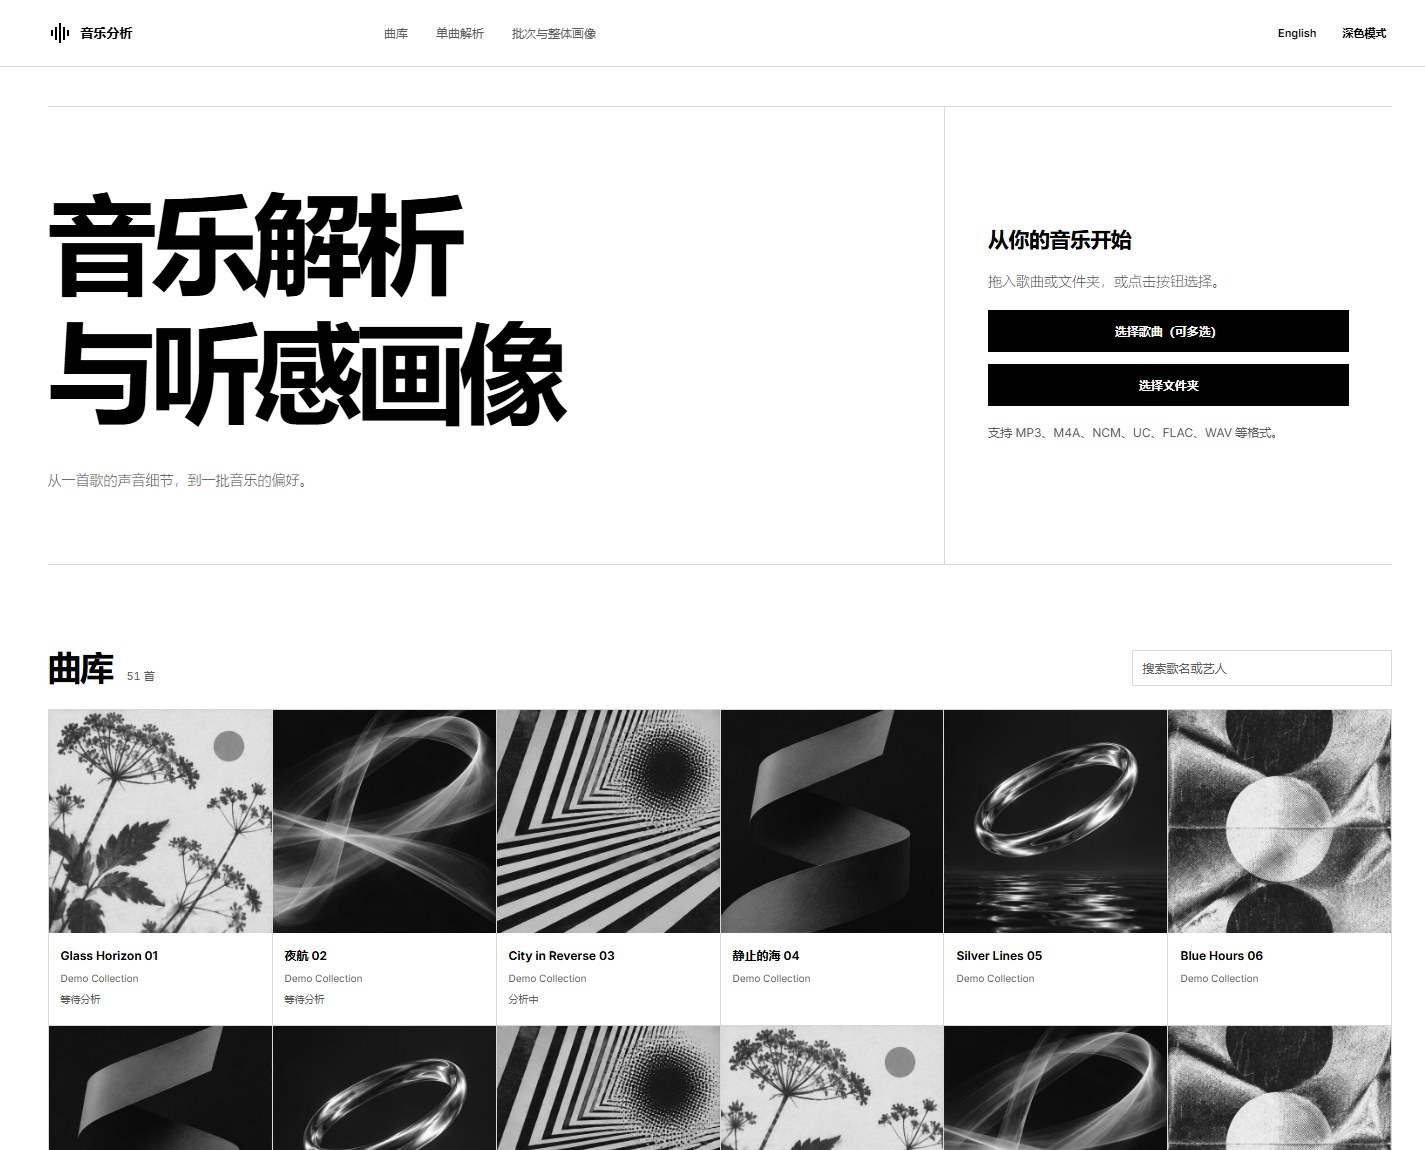
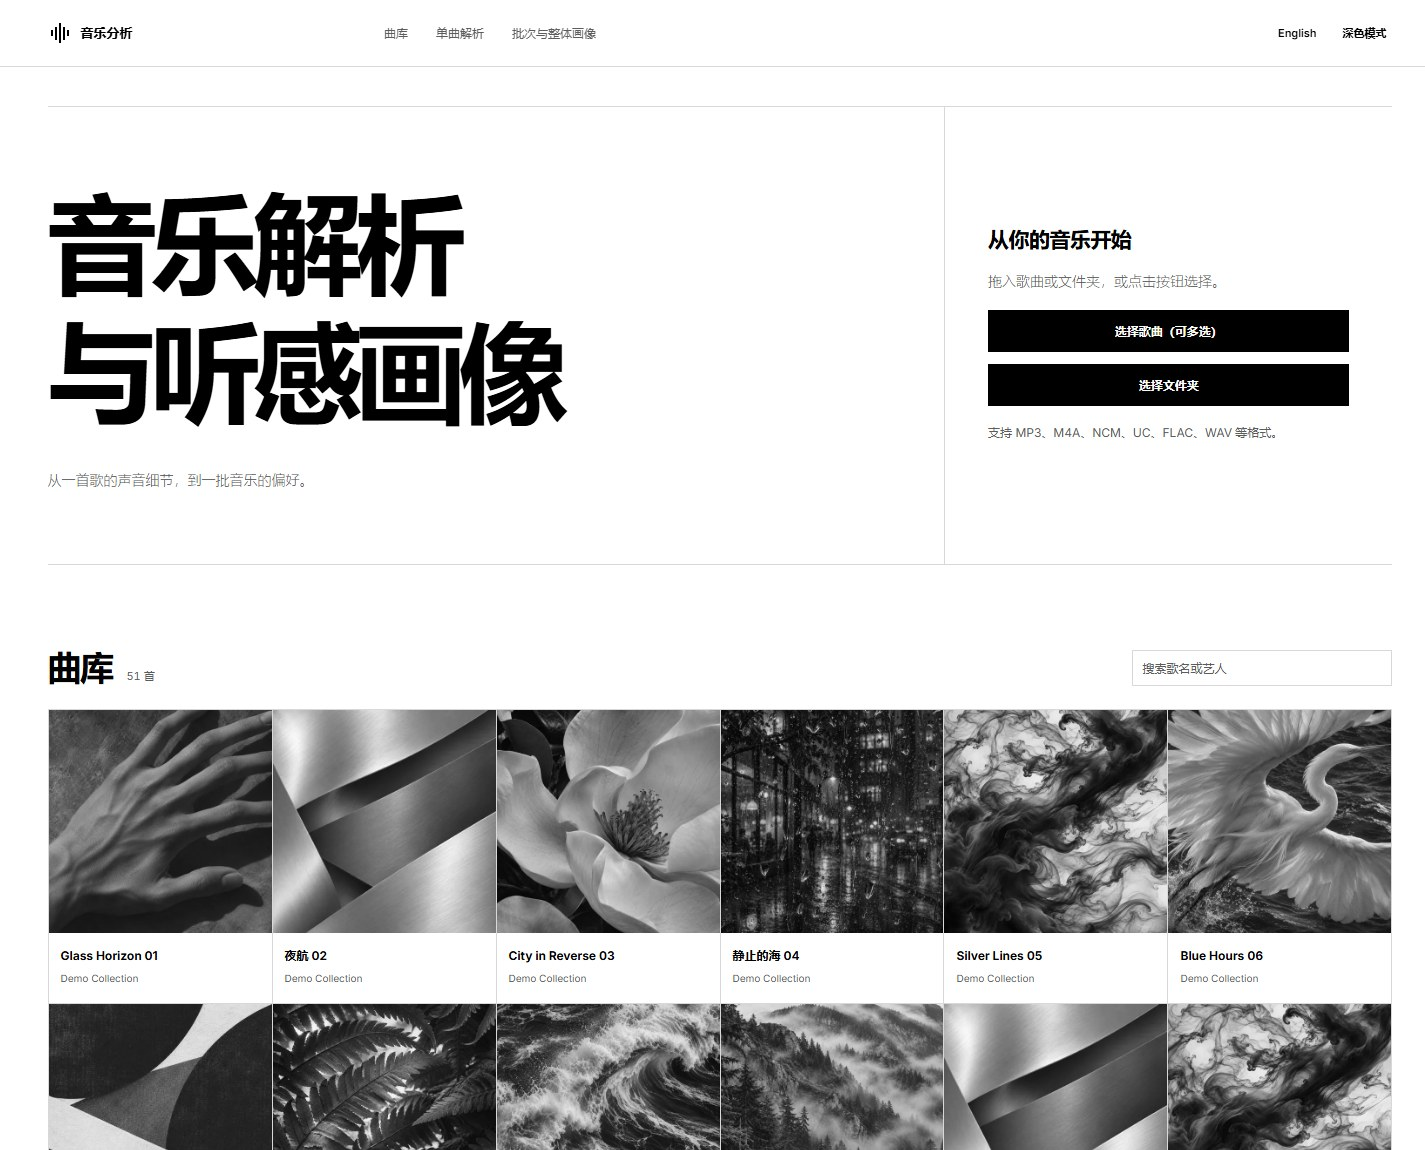
Expand decorative covers to ten varied full-bleed artworks

Changed region(s): [[0.0309, 0.6087, 0.9881, 0.8217], [0.0309, 0.8522, 0.9881, 1.0]]

diff --git a/music_analysis/web/styles.css b/music_analysis/web/styles.css
@@ -132,15 +132,10 @@ input::placeholder { color: var(--muted); }
 }
 .sleeve-frame { display: block; overflow: hidden; min-width: 0; background: var(--panel); }
 .sleeve {
-  display: block; aspect-ratio: 1; width: 100%; background: #333 url("record-sleeves.webp") no-repeat;
-  background-size: 300% 200%; filter: grayscale(100%); transform: scale(1);
+  display: block; aspect-ratio: 1; width: 100%; background: #333 no-repeat center;
+  background-size: cover; filter: grayscale(100%); transform: scale(1);
   transition: filter .8s cubic-bezier(.16, 1, .3, 1), transform .8s cubic-bezier(.16, 1, .3, 1);
 }
-.sleeve[data-sleeve="1"] { background-position: 50% 0; }
-.sleeve[data-sleeve="2"] { background-position: 100% 0; }
-.sleeve[data-sleeve="3"] { background-position: 0 100%; }
-.sleeve[data-sleeve="4"] { background-position: 50% 100%; }
-.sleeve[data-sleeve="5"] { background-position: 100% 100%; }
 /* Reveal each original cover in color over 0.8s with the supplied easing curve. */
 .record-tile:is(:hover, :focus-visible) .sleeve, .report-cover:hover .sleeve { filter: grayscale(0%); transform: scale(1.05); }
 .record-facts { min-width: 0; display: grid; gap: 5px; padding: 14px 12px 17px; overflow-wrap: anywhere; }

diff --git a/music_analysis/web/app.js b/music_analysis/web/app.js
@@ -9,8 +9,10 @@ const audio = $("audio");
 const importButtons = [$("choose-files"), $("choose-folder")];
 const reducedMotion = matchMedia("(prefers-reduced-motion: reduce)");
 const statuses = { queued: "等待分析", running: "分析中", done: "已分析", error: "分析失败" };
+const sleeveArt = ["01-botanical-shadow", "02-ocean-nocturne", "03-mountain-mist", "04-ivory-bloom",
+  "05-ink-drift", "06-human-gesture", "07-city-after-rain", "08-heron-flight", "09-cobalt-interlock", "10-silver-facets"];
 const sleeveSlots = new Map();
-const sleeveCounts = [0, 0, 0, 0, 0, 0];
+const sleeveCounts = sleeveArt.map(() => 0);
 let noticeTimer, pendingPlayhead, playbackFallback = false, lastListRequest = 0, summaryRequest = 0;
 
 function element(tag, text = "", className = "") {
@@ -104,6 +106,7 @@ function sleeveIndex(id) {
 function sleeve(index) {
   const art = element("span", "", "sleeve");
   art.dataset.sleeve = index;
+  art.style.backgroundImage = `url("/assets/sleeves/${sleeveArt[index]}.webp")`;
   art.setAttribute("aria-hidden", "true");
   return art;
 }

diff --git a/music_analysis/web/index.html b/music_analysis/web/index.html
@@ -6,9 +6,9 @@
   <meta name="local-token" content="__LOCAL_TOKEN__">
   <title>音乐分析</title>
   <link rel="preload" href="/assets/InterVariable.woff2" as="font" type="font/woff2" crossorigin>
-  <link rel="stylesheet" href="/assets/styles.css?v=culture-aesthetics-2">
+  <link rel="stylesheet" href="/assets/styles.css?v=cover-collection-10">
   <script src="/assets/i18n.js?v=culture-aesthetics-2" defer></script>
-  <script src="/assets/app.js?v=culture-aesthetics-2" defer></script>
+  <script src="/assets/app.js?v=cover-collection-10" defer></script>
 </head>
 <body>
   <header class="topbar">

diff --git a/docs/cover-art.md b/docs/cover-art.md
@@ -1,0 +1,128 @@
+# 十款装饰封套
+
+这套封套使用内置 imagegen 工具生成，共十款。构图采用满版裁切与克制配色，题材包含自然、人物局部、都市摄影、流体和两款几何材质。封套仅用于视觉区分，不参与音乐分析，也不代表歌曲真实专辑或曲风。
+
+![十款封套总览，按编号从左到右、从上到下排列。](images/cover-collection.jpg)
+
+1. **叶影**：[01-botanical-shadow.webp](../music_analysis/web/sleeves/01-botanical-shadow.webp)
+2. **潮汐**：[02-ocean-nocturne.webp](../music_analysis/web/sleeves/02-ocean-nocturne.webp)
+3. **山岚**：[03-mountain-mist.webp](../music_analysis/web/sleeves/03-mountain-mist.webp)
+4. **花序**：[04-ivory-bloom.webp](../music_analysis/web/sleeves/04-ivory-bloom.webp)
+5. **墨流**：[05-ink-drift.webp](../music_analysis/web/sleeves/05-ink-drift.webp)
+6. **触感**：[06-human-gesture.webp](../music_analysis/web/sleeves/06-human-gesture.webp)
+7. **夜雨**：[07-city-after-rain.webp](../music_analysis/web/sleeves/07-city-after-rain.webp)
+8. **掠羽**：[08-heron-flight.webp](../music_analysis/web/sleeves/08-heron-flight.webp)
+9. **群青**：[09-cobalt-interlock.webp](../music_analysis/web/sleeves/09-cobalt-interlock.webp)
+10. **银折**：[10-silver-facets.webp](../music_analysis/web/sleeves/10-silver-facets.webp)
+
+## 生成提示词
+
+以下为最终选用的提示词。01–08 使用共同提示 A，09–10 使用共同提示 B；每次生成的完整提示为相应共同提示与该款题材提示两段拼接。
+
+<details>
+<summary>共同提示 A：自然、人物与都市题材</summary>
+
+```text
+Create one original SQUARE album-cover artwork for a sophisticated modern music gallery. Full-bleed, visually rich composition: the recognizable subject and its organic details extend through the ENTIRE frame and are cropped naturally at the edges. Tight immersive framing, strong focal structure, subtle fine-art photographic grain, controlled contrast and a restrained harmonious palette. Contemporary, elegant, clear, with enough layered detail to reward looking closely. Every region participates; no tiny isolated object, no large blank background, no empty upper half. The subject here is natural or photographic, not an abstract geometric sculpture, paper-fold relief or arrangement of blocks. This is the artwork itself, no album mockup. No text, typography, letters, numbers, logos, watermark, frame, montage or grids.
+```
+
+</details>
+
+<details>
+<summary>共同提示 B：满版几何题材</summary>
+
+```text
+Create one original SQUARE album-cover artwork: a visually full, edge-to-edge abstract composition in a refined contemporary minimalist style. This is the artwork surface itself. CRITICAL COMPOSITION: large interlocking forms and material planes must span the WHOLE canvas, reaching and being cropped by all four edges. Use an intimate macro crop and several overlapping elements so every part of the picture participates; background exists only as narrow or shaped intervals between forms. Strong overall structure, generous scale, layered depth, extremely deliberate rhythm. Avoid small isolated objects, empty upper halves, a tiny object on a blank backdrop, distant still-life scenes and excessive blank margins. Keep a restrained palette and simple coherent geometry, elegant tactile surfaces, subtle natural lighting, beautiful modern abstract-art direction. No text, letters, numbers, logos, watermark, frame, album mockup, split panels or grids. No busy ornament, rainbow neon or gratuitous glossy CGI.
+```
+
+</details>
+
+<details>
+<summary>01-botanical-shadow · 叶影</summary>
+
+```text
+Close-up fine-art botanical photograph of overlapping deep forest-green fern fronds, with beautifully readable individual leaflets, veins, subtle natural imperfections and layered shadows. Fronds cross diagonally in front of one another and extend off all edges, the full picture alive with botanical structure. A small amount of soft ivory backlight shines through narrow gaps. Dark green, black-green and warm ivory only. A sophisticated lush natural composition, not a repeating graphic pattern.
+```
+
+</details>
+
+<details>
+<summary>02-ocean-nocturne · 潮汐</summary>
+
+```text
+An overhead fine-art photograph of a single powerful breaking ocean wave, its sculptural white foam curling diagonally across deep ink-blue water. Intricate natural foam branches and smaller eddies populate the entire square. No horizon or sky. A large dynamic wave fills and exceeds the frame, elegant broad dark-to-white contrast with subtle storm-grey tonal layers, no artificial neon colors or oversaturated turquoise.
+```
+
+</details>
+
+<details>
+<summary>03-mountain-mist · 山岚</summary>
+
+```text
+A close, compressed landscape photograph of a rugged mountain ridge and dense conifer forest threaded with low mist. Layered near-black forest detail fills the lower and side regions; pale fog winds through the center between recognizable rocky and wooded slopes. A further misty ridge reaches the top edge. Rich frame-wide natural depth, not a small mountain beneath a huge blank sky. Restrained charcoal, soft jade-grey and off-white, contemporary fine-art landscape mood.
+```
+
+</details>
+
+<details>
+<summary>04-ivory-bloom · 花序</summary>
+
+```text
+An extreme close-up fine-art photograph of one large ivory magnolia flower opening across the whole square. Broad delicate petals overlap and curl off the image edges, clear natural petal veins and a small warm rust-colored stamen cluster create a recognizable flower rather than abstract paper ribbons. Deep charcoal botanical shadows appear only in shaped gaps. Cream, warm white, muted rust and near-black; elegant, tactile and quietly dramatic, not a flower isolated against a large empty backdrop.
+```
+
+</details>
+
+<details>
+<summary>05-ink-drift · 墨流</summary>
+
+```text
+Organic sumi-black ink suspended in water, photographed extremely close as dense flowing plumes, branching filaments and translucent smoky layers spread across the entire square. A strong free-flowing diagonal current, rich natural marbling and soft grey diffusion fill every corner, with warm ivory water revealed only between plumes. It should feel like fluid motion, not brush lettering, paper folds, concentric circles or geometric forms. Refined monochrome abstract organic art, no container visible.
+```
+
+</details>
+
+<details>
+<summary>06-human-gesture · 触感</summary>
+
+```text
+An intimate fine-art photographic study of one adult human hand and its shadow, viewed close enough that the wrist enters one edge and relaxed gracefully spread fingers extend toward and beyond the opposite edges. The hand itself occupies most of the composition; warm desaturated skin texture, subtle creases, soft side light and a deep graphite shadow create a strong organic silhouette. Anatomically correct single hand with five fingers, no extra limbs, no jewelry, no props, no face. Restrained warm monochrome, elegant and expressive, not clinical.
+```
+
+</details>
+
+<details>
+<summary>07-city-after-rain · 夜雨</summary>
+
+```text
+A fine-art nocturnal city photograph seen through rain-speckled glass. Large translucent droplets in the foreground overlap softly blurred warm building windows, streaked street lights and wet-street reflections that extend throughout the entire square. The layered image clearly evokes an urban night after rain, with strong controlled amber and muted red highlights against graphite-black. Atmospheric photographic depth, full frame, no empty sky, no readable signs, no rainbow neon, no futuristic CGI.
+```
+
+</details>
+
+<details>
+<summary>08-heron-flight · 掠羽</summary>
+
+```text
+A close-cropped fine-art photograph of a white heron taking flight over dark water. One great feathered wing sweeps across the upper and left edges, the second wing and body fill the lower region, while the elegant curved neck and slender head remain recognizably visible near the right side. Detailed natural feathers, subtle motion, dramatic soft light and textured dark water in the remaining gaps. Full-frame animal presence, not a small bird on a blank background. Ivory, cool grey and near-black, graceful contemporary photographic album art.
+```
+
+</details>
+
+<details>
+<summary>09-cobalt-interlock · 群青</summary>
+
+```text
+Deep ultramarine-blue circular segments, broad chalk-white paper strips and a single graphite plane interlock across the entire square. Oversized circles extend beyond the top and right edges; white planes cut through them at clean oblique angles. Three or four layers, rich precise screenprint texture, confident graphic rhythm, no broad unused white background.
+```
+
+</details>
+
+<details>
+<summary>10-silver-facets · 银折</summary>
+
+```text
+A tightly cropped architectural composition made entirely of folded satin-brushed aluminum planes. Four large diagonal silver and charcoal facets meet and overlap, filling the frame with crisp seams, muted reflections and deep narrow shadows. Some folds exit every image edge. Restrained monochrome luxury, beautiful physical material, no central small metal object.
+```
+
+</details>

diff --git a/README.md b/README.md
@@ -130,7 +130,7 @@ powershell -ExecutionPolicy Bypass -File .\Setup.ps1
 - **听感画像描述选曲。** 它用于观察这批音乐的推动感、情绪底色与变化幅度，不据此推断用户的性格或心理状态。
 - **音色与实体乐器存在歧义。** 采样、合成器模拟、混音遮蔽和弱音都可能造成漏判或误判。细分风格与文化标签也尚未完成独立、全面的准确率评测。
 - **导入副本统一为 MP3。** 原始 MP3 和 NCM 中的 MP3 尽量流复制，其他可解码格式转换为 320 kbps、48 kHz 立体声 MP3；无损源会发生有损压缩。请另行保留需要归档的原文件。NCM／UC 支持取决于文件变体，QMC／KGM 等不在当前支持范围内。
-- **截图中的封套是装饰。** 内置六款图案由 AI 生成，与歌曲真实专辑封面无关。原始音乐、曲库数据库、分析缓存和模型文件均由 `.gitignore` 排除。
+- **截图中的封套是装饰。** 内置十款满版图案由 AI 生成，涵盖植物、海浪、山雾、花朵、墨水、人物局部、城市、飞鸟和两款几何题材，与歌曲真实专辑封面无关。[封套总览与生成提示词](docs/cover-art.md)。原始音乐、曲库数据库、分析缓存和模型文件均由 `.gitignore` 排除。
 
 逻辑与迁移回归检查可在安装依赖后运行：
 

diff --git a/THIRD_PARTY_NOTICES.md b/THIRD_PARTY_NOTICES.md
@@ -25,5 +25,5 @@
 ## 字体与视觉素材
 
 - **Inter**：Copyright (c) The Inter Project Authors，SIL Open Font License 1.1。字体文件随本仓库提供，完整许可见 [Inter-LICENSE.txt](music_analysis/web/Inter-LICENSE.txt)。
-- **装饰封套**：本项目通过 AI 图像生成得到的六款装饰图，随应用用于界面展示。它们不对应真实歌曲或唱片的专辑封面。
+- **装饰封套**：本项目使用内置 imagegen 工具生成的十款满版装饰图，随应用用于界面展示。它们不对应真实歌曲或唱片的专辑封面。完整提示词与文件见[封套说明](docs/cover-art.md)。
 - **README 截图**：来自本应用界面，曲名、艺人、批次名称已匿名化；不包含或分发音乐音频。
